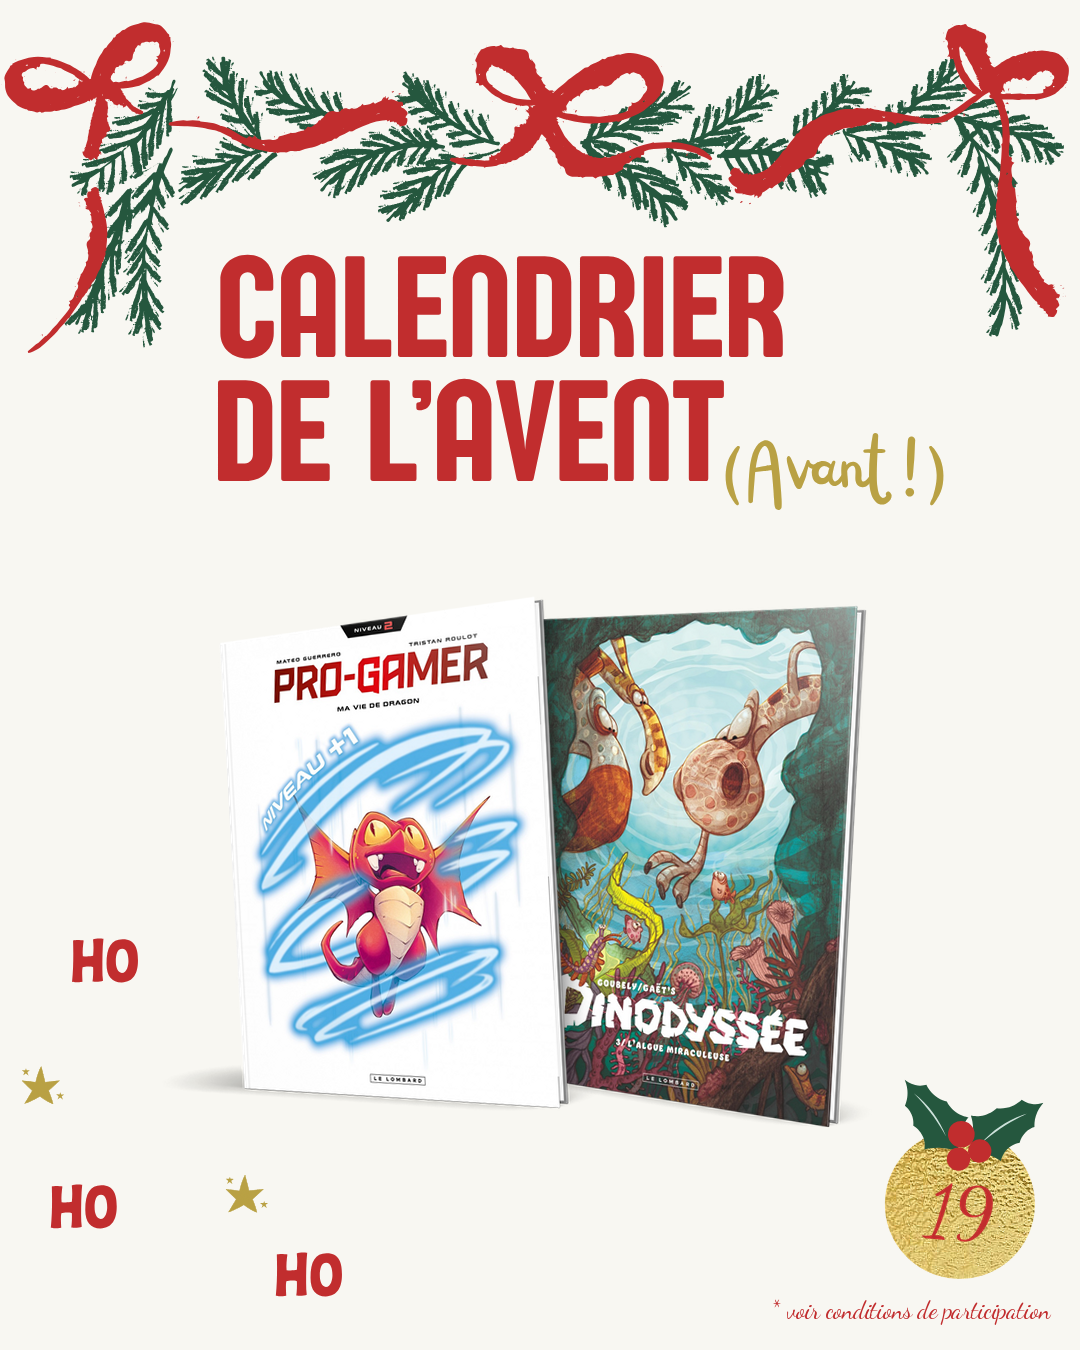
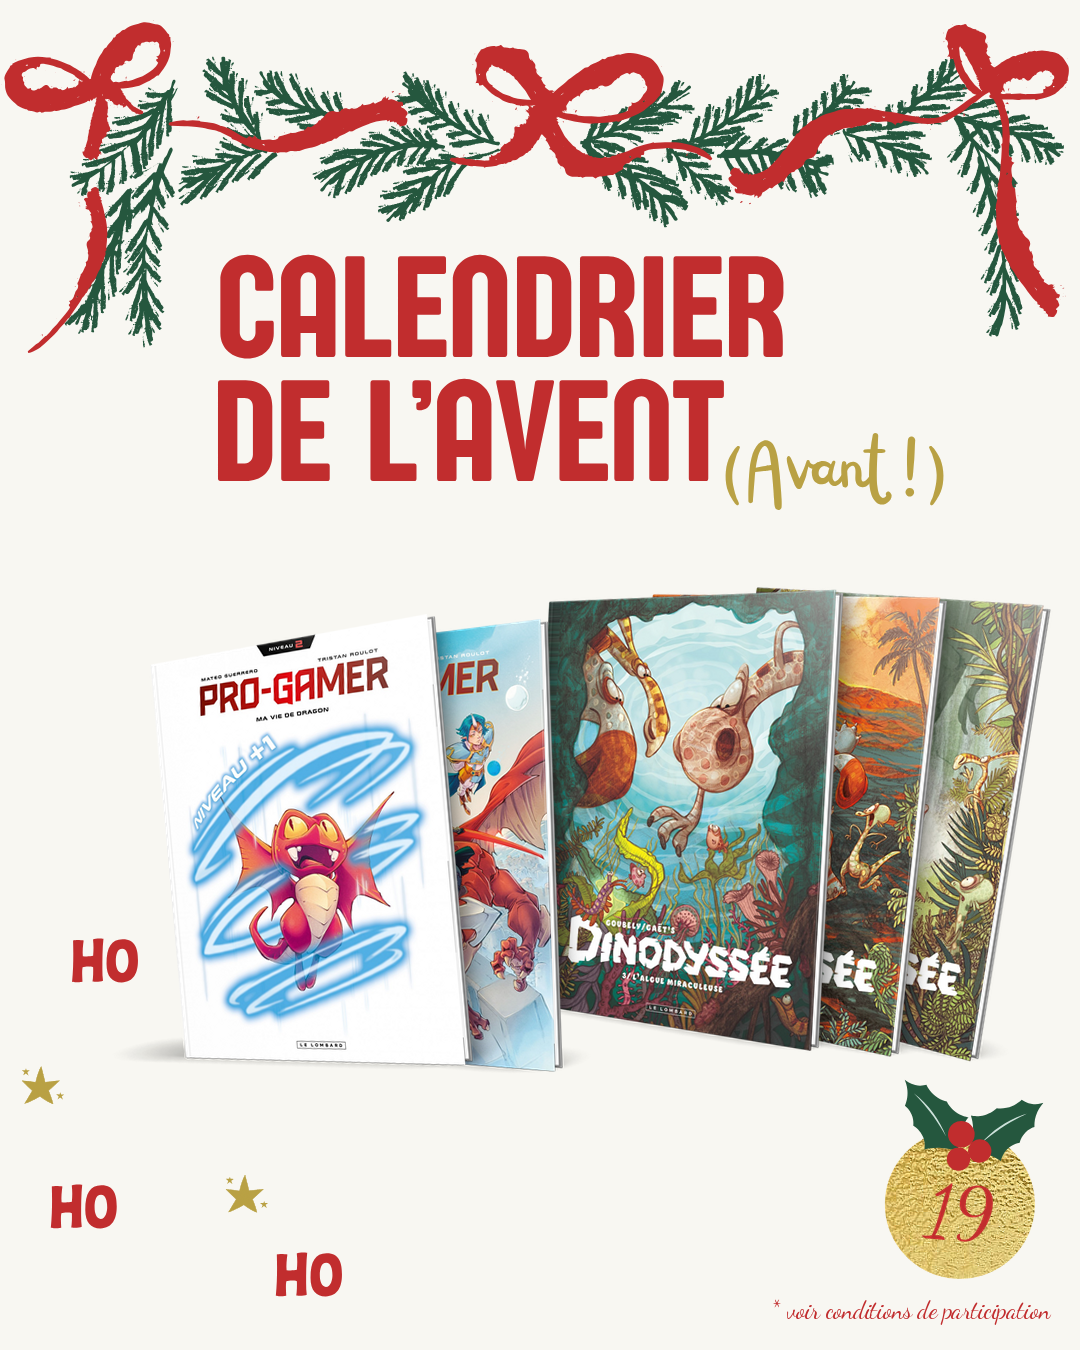
Calendrier Avant : jour 19 = Pro gamer 1-2 | Dinodyssée 1-3 (mise en page du jour 16)
Claude-Session: https://claude.ai/code/session_01QaZk7QZvzTVY1x8op41wve

Changed region(s): [[0.1528, 0.4356, 0.9778, 0.84]]

diff --git a/calendrier-avent-2026/planning.py b/calendrier-avent-2026/planning.py
@@ -28,7 +28,7 @@ PLANNING = [
     'jour16',                             # 16 Jian 1-2 | La voie du glaive 1-3 (voir COMPOSITIONS)
     {'serie': ['9782808212588', '9782803676767']},                                   # 17 Mitsuo 2, 1
     'jour18',                             # 18 M.A.D. 1-3 | Sherlock Holmes contre Arsène Lupin 1-2 (voir COMPOSITIONS)
-    ['9782808218078', '9782808216821'],   # 19 Pro gamer 2 + Dinodyssée 3
+    'jour19',                             # 19 Pro gamer 1-2 | Dinodyssée 1-3 (voir COMPOSITIONS)
     ['9782808216760'],                    # 20 Alpha 21 – Caméléon
     ['9782808216937'],                    # 21 Les Enfants de la Résistance 10 – La guerre n'est pas finie
     ['9782808215121', '9782808214421'],   # 22 Aylin 2 + Elsbeth 2
@@ -63,6 +63,13 @@ COMPOSITIONS = {
         'books': [('9782808217071', -5, 1.0, 5), ('9782808211413', -2, 1.0, 4),
                   ('9782808215008', 3, 1.02, 3), ('9782808212144', 6, 1.02, 2), ('9782808211192', 9, 1.02, 1)],
         'dy': [20, 20, -15, -15, -15],       # Jian plus bas, La voie du glaive plus haut
+        'steps': [0.35, 0.95, 0.32, 0.32], 'h': 460, 'y': 600, 'cx': 590,
+    },
+    # même mise en page que le jour 16 : Pro gamer 2 devant, 1 derrière | Dinodyssée 3, puis 2 et 1 derrière
+    'jour19': {
+        'books': [('9782808218078', -5, 1.0, 5), ('9782808216784', -2, 1.0, 4),
+                  ('9782808216821', 3, 1.02, 3), ('9782808214933', 6, 1.02, 2), ('9782808212496', 9, 1.02, 1)],
+        'dy': [20, 20, -15, -15, -15],
         'steps': [0.35, 0.95, 0.32, 0.32], 'h': 460, 'y': 600, 'cx': 590,
     },
     # même mise en page que le jour 16 : M.A.D. 3 devant, 2 et 1 derrière | Holmes vs Lupin 2, puis 1 derrière

diff --git a/calendrier-avent-2026/README.md b/calendrier-avent-2026/README.md
@@ -37,6 +37,7 @@ Si la simulation a déjà sa propre ombre au sol, elle est gardée telle quelle.
 Compositions sur mesure : dictionnaire `COMPOSITIONS` de `planning.py` (angle, échelle, profondeur `z` et écarts par album).
 Jour 16 : Jian 2 devant (-5°), Jian 1 derrière à sa droite (-2°) | La voie du glaive 3, 2, 1 à droite (+3°, +6°, +9°).
 Jour 18 : même mise en page – M.A.D. 3, 2, 1 (-5°, -2°, +1°) | Holmes vs Lupin 2, 1 (+3°, +6°).
+Jour 19 : même mise en page – Pro gamer 2, 1 (-5°, -2°) | Dinodyssée 3, 2, 1 (+3°, +6°, +9°).
 
 Versions alternatives : liste `VARIANTES` de `planning.py` (ex. `jour14b` : Resurrection Hill, Little Tulip, New York Cannibals – collection Signé Boucq/Charyn ; `jour15b` : Un Noël à Paris 2 devant, 1 derrière)..
 
